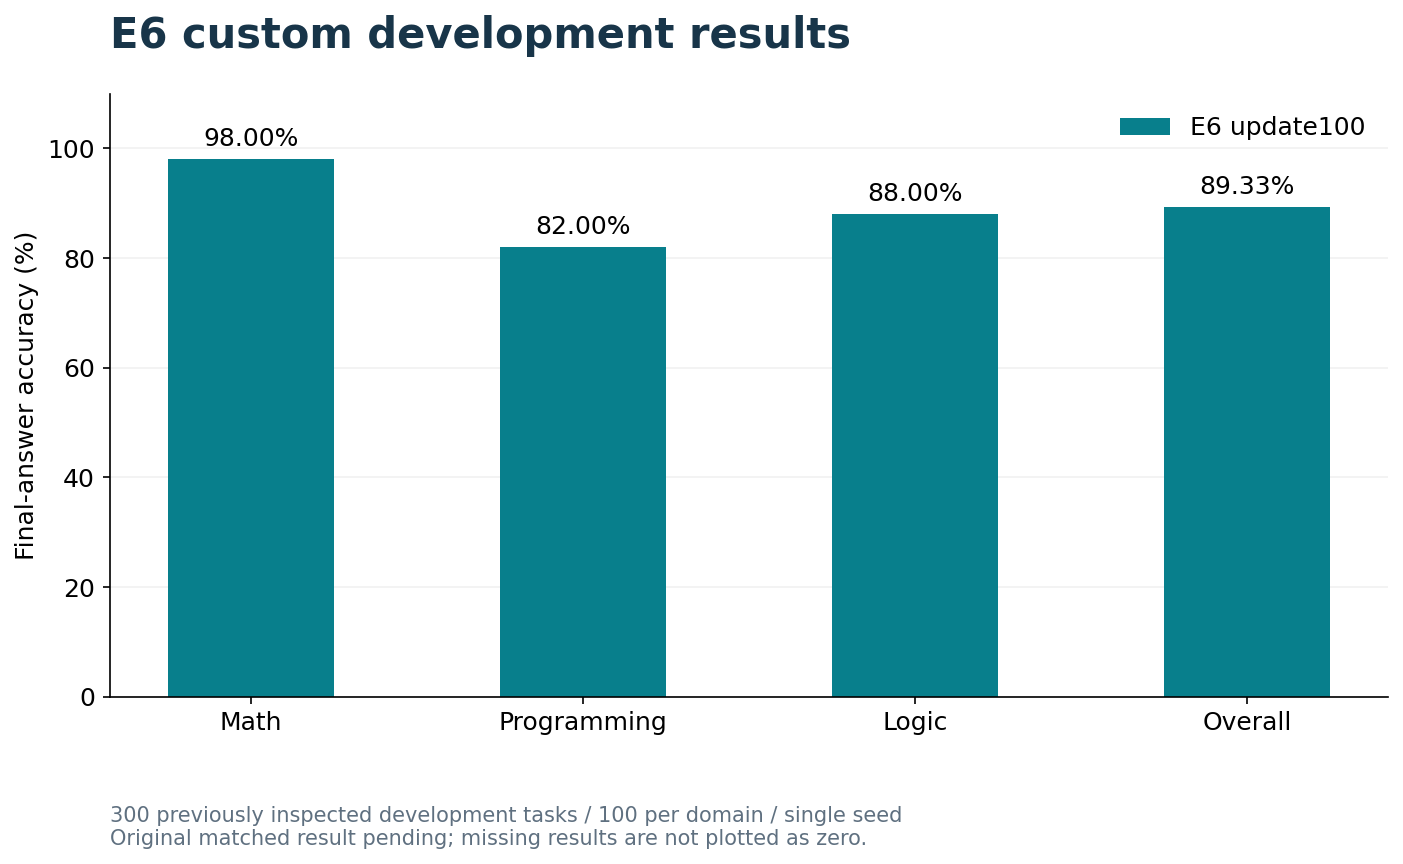
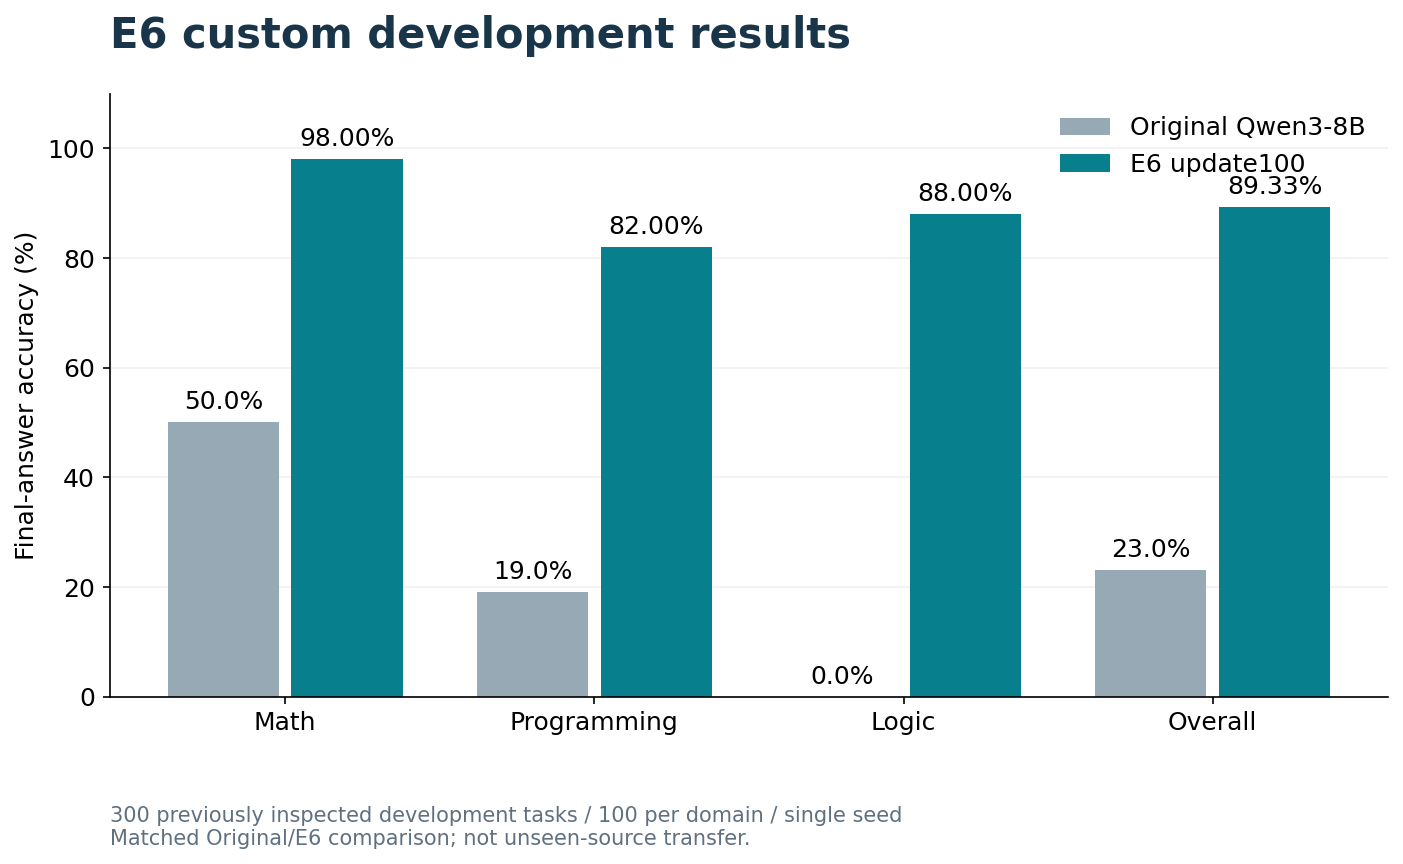
Report verified matched Original versus E6 development results

diff --git a/results/README.md b/results/README.md
@@ -2,14 +2,14 @@
 
 ## E6: custom development tasks
 
-E6 was trained on 1,500 synthetic tasks and evaluated at the fixed update-100 checkpoint on 300 different, previously inspected development instances from familiar families. The matched Original Qwen3-8B comparison is pending completion and verification.
+E6 was trained on 1,500 synthetic tasks and evaluated at the fixed update-100 checkpoint on 300 different, previously inspected development instances from familiar families. On the same 300 development tasks with matched prompts, decoding and scoring, **Original Qwen3-8B scored 69/300 (23.00%)**, compared with **E6's 268/300 (89.33%)**. Both completed runs passed saved-response identity and score-replay checks.
 
 | Domain | E6 correct / tasks | E6 accuracy | Original |
 |---|---:|---:|---|
-| Math | 98 / 100 | 98.00% | Pending |
-| Programming | 82 / 100 | 82.00% | Pending |
-| Logic | 88 / 100 | 88.00% | Pending |
-| **Overall** | **268 / 300** | **89.33%** | **Pending** |
+| Math | 98 / 100 | 98.00% | 50 / 100 (50.00%) |
+| Programming | 82 / 100 | 82.00% | 19 / 100 (19.00%) |
+| Logic | 88 / 100 | 88.00% | 0 / 100 (0.00%) |
+| **Overall** | **268 / 300** | **89.33%** | 69 / 300 (23.00%) |
 
 ![E6 development results](../figures/e6_results.png)
 
@@ -21,7 +21,7 @@ E6 answers **268/300 development tasks correctly (89.33%)**. It performs best on
 
 **Answer accuracy and map validity are different outcomes.** All 300 outputs parse as JSON; 267 satisfy the strict reference-map contract. A valid map must match the supported task-bound structure. This count does not establish faithful interpretation of arbitrary paragraphs, and correct final answers do not necessarily contain valid maps.
 
-**The comparison is within familiar task families.** Training uses 1,500 tasks; evaluation uses 300 different instances that were previously inspected during development. The matched Original control remains incomplete. Once verified, that comparison will measure the effect of the complete E6 fine-tuning procedure relative to the unadapted base under the shared output contract. It will not isolate a causal benefit of set maps from additional training or format learning; that requires matched training controls.
+**The comparison is within familiar task families.** Training uses 1,500 tasks; evaluation uses 300 different instances that were previously inspected during development. The matched Original control has completed and passed replay. This comparison measures the effect of the complete E6 fine-tuning procedure relative to the unadapted base under the shared output contract. It will not isolate a causal benefit of set maps from additional training or format learning; that requires matched training controls.
 
 **Transfer remains unresolved.** Success here does not establish useful gains on unfamiliar source material, MATH-500, or fact verification. Source-to-map translation, execution, evidence selection and output-format failures remain competing explanations. We plan to measure those stages separately before choosing targeted changes; these diagnostics are not evidence that the transfer gap is already solved.
 
@@ -81,3 +81,5 @@ This is a single-seed procedural pilot. It does not establish biological plausib
 - [Aggregate provenance](provenance.json)
 
 The private experiment stores raw responses, completion records, and source identities. The public snapshot contains aggregate results only, so its hashes support version tracking without providing an independently executable reproduction.
+
+Matched paired outcomes: both_correct=69, original_only=0, e6_only=199, both_wrong=32. See [comparison evidence](../datasets/e6_custom_v1/matched_comparison.json).

diff --git a/datasets/e6_custom_v1/README.md b/datasets/e6_custom_v1/README.md
@@ -72,7 +72,7 @@ E6 started from Original Qwen3-8B with a fresh LoRA adapter and trained for 100 
 | Logic | 88 / 100 | 88.00% | 87 / 100 |
 | **Total** | **268 / 300** | **89.33%** | **267 / 300** |
 
-All 300 outputs parsed as JSON; none hit the generation cap. This is a single-seed automated development result with zero expert reviews. The matched Original evaluation was incomplete at release preparation, so this release makes no superiority claim against Original on these 300 tasks. Do not compare this percentage directly with the earlier E1 test percentage. Reliable transfer to unseen sources remains a research objective.
+All 300 outputs parsed as JSON; none hit the generation cap. This is a single-seed automated development result with zero expert reviews. On the same 300 development tasks with matched prompts, decoding and scoring, **Original Qwen3-8B scored 69/300 (23.00%)**, compared with **E6's 268/300 (89.33%)**. Both completed runs passed saved-response identity and score-replay checks. Do not compare this percentage directly with the earlier E1 test percentage. Reliable transfer to unseen sources remains a research objective.
 
 This package supports task reuse and execution/scoring of supplied targets and new predictions. It does not contain trained adapters, raw model responses, the full generator, or the training pipeline; it is not by itself a complete reproduction of training or the reported model accuracy. The validator cannot independently reproduce an aggregate model result without its predictions and checkpoint.
 

diff --git a/README.md b/README.md
@@ -2,7 +2,7 @@
 
 We study whether language models can learn computable representations of a problem and use them to produce verifiable answers. Our goal is to extend this approach to claims and evidence in source material.
 
-E6 is a Qwen3-8B model fine-tuned on **1,500 synthetic math, programming and logic tasks** using set-based representations. At the fixed update-100 checkpoint, it answered **268 of 300 development tasks correctly (89.33%)**. These were separate instances of familiar task families, previously inspected during development. The matched Original Qwen3-8B comparison is still being completed.
+E6 is a Qwen3-8B model fine-tuned on **1,500 synthetic math, programming and logic tasks** using set-based representations. At the fixed update-100 checkpoint, it answered **268 of 300 development tasks correctly (89.33%)**. These were separate instances of familiar task families, previously inspected during development. On the same 300 development tasks with matched prompts, decoding and scoring, **Original Qwen3-8B scored 69/300 (23.00%)**, compared with **E6's 268/300 (89.33%)**. Both completed runs passed saved-response identity and score-replay checks.
 
 This result shows performance within the custom task families; reliable transfer to unseen source material remains an open research problem. We are investigating source-to-representation translation, execution and output-format failures separately.
 

diff --git a/benchmarks/README.md b/benchmarks/README.md
@@ -5,7 +5,7 @@
 | Evaluation | Population | State | Evidence boundary |
 |---|---|---|---|
 | E6 update100 | 300 custom development tasks | Complete: 268/300 (89.33%) | Familiar families, previously inspected, single seed |
-| Original matched E6 control | Same 300 tasks and protocol | Pending completion and verification | No partial score used as a final comparison |
+| Original matched E6 control | Same 300 tasks and protocol | Complete: 69/300 (23.00%) | Same-cohort comparison; saved-response replay passed |
 | Reliable unseen-source transfer | New provided source groups | Not established | No claim of resolved transfer from custom-task accuracy |
 
 See [current pilot results](../results/README.md) and [reusable E6 dataset](../datasets/e6_custom_v1/README.md).
